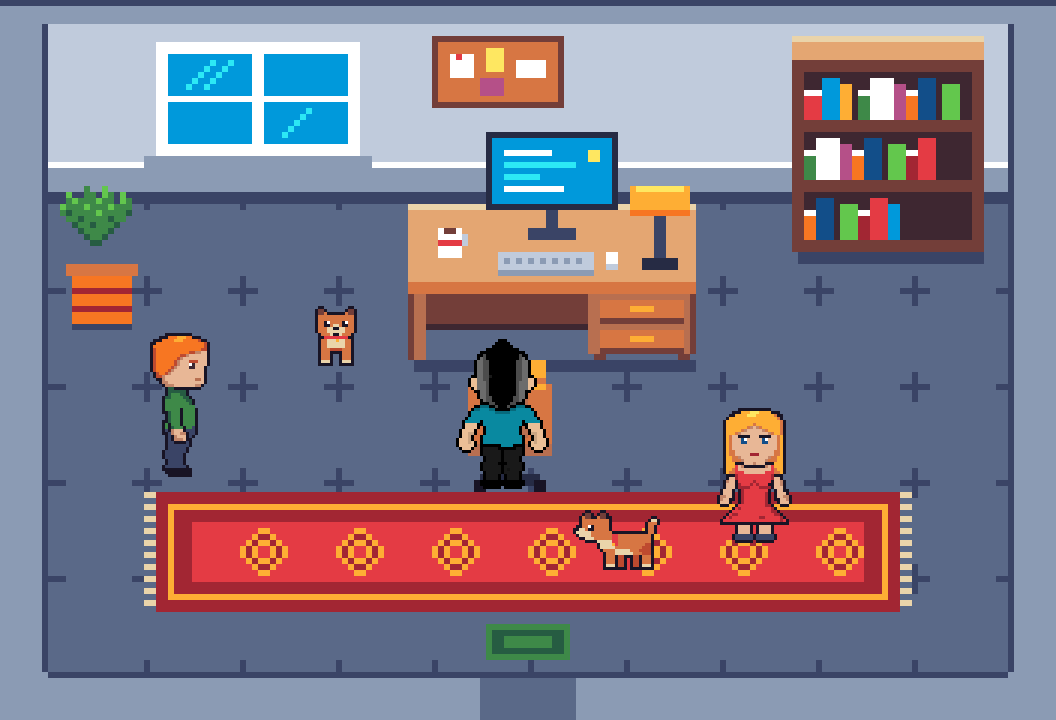
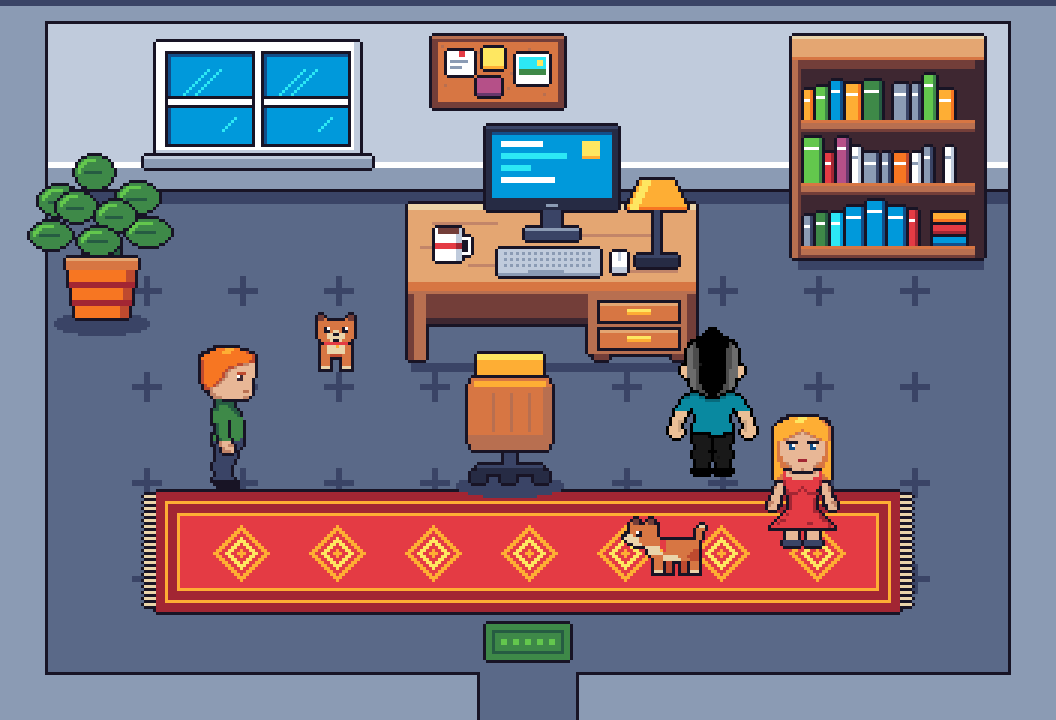
prototype(#61): room props redrawn in the characters' visual language
v2 of the desk and room props: 1:1 pixels with a 1 px dark outline per object,
after Asi found v1 (16 px grid at 2x, no outlines) didn't match the cast.
Floor and walls unchanged. scene-v1.png keeps the first version.

Changed region(s): [[0.0312, 0.0306, 0.9688, 0.9472], [0.2812, 0.4278, 0.3438, 0.5194]]

diff --git a/art-tests/claude-drawn/make_room.py b/art-tests/claude-drawn/make_room.py
@@ -1,137 +1,259 @@
 # A desk and a small office room, drawn from nothing by code (#61 side test).
-# Map rule from #60: drawn on a 16 px grid, exported at 2x, no outlines (like the Hall). ENDESGA 32 only.
-# Writes desk.png / desk@2x.png, room.png / room@2x.png and scene.png (room at 2x with the test cast at 1:1).
+# v2: props use the characters' visual language: 1:1 pixels, a 1 px dark outline around every object, a base
+# colour with one shade and one highlight. (v1 followed the #60 map rule, 16 px grid at 2x with no outlines;
+# Asi: "not the same visual language as the characters". scene-v1.png keeps that version.)
+# The floor and wall shell are still the 16 px grid at 2x: the floor is an open question.
+# Writes desk.png, room.png and scene.png (room with the test cast, zoomed 3x). ENDESGA 32 only.
 # usage (repo root): python3 -I art-tests/claude-drawn/make_room.py
 import os
-from PIL import Image
+from PIL import Image, ImageChops, ImageDraw
 
 HERE = os.path.dirname(os.path.abspath(__file__))
 E32 = set(open(os.path.join(HERE, '../pixellab/e32.hex')).read().split())
 INK, SL4, SL3, SL2, SL1, SL0, WHT = '181425', '262b44', '3a4466', '5a6988', '8b9bb4', 'c0cbdc', 'ffffff'
-W1, W2, W3, W4, W5, W6 = 'ead4aa', 'e4a672', 'd77643', 'b86f50', '733e39', '3e2731'
-RED, DRED, GOLD, YEL, ORG, PINK = 'e43b44', 'a22633', 'feae34', 'fee761', 'f77622', 'b55088'
+W1, W2, W3, W4, W5, W6, GRAIN = 'ead4aa', 'e4a672', 'd77643', 'b86f50', '733e39', '3e2731', 'c28569'
+RED, DRED, GOLD, YEL, ORG, RUST, PINK, PLUM = 'e43b44', 'a22633', 'feae34', 'fee761', 'f77622', 'be4a2f', 'b55088', '68386c'
 G1, G2, G3, BLU, CYA, NAVY = '63c74d', '3e8948', '265c42', '0099db', '2ce8f5', '124e89'
+SHADE = {RED: DRED, BLU: NAVY, GOLD: ORG, G1: G2, G2: G3, WHT: SL0, PINK: PLUM, ORG: RUST, CYA: BLU, SL1: SL3}
+W, H = 352, 240
+
+
+def rgb(c):
+    return tuple(bytes.fromhex(c)) + (255,)
 
 
 class Canvas:
-    def __init__(self, w, h, fill=None):
-        self.im = Image.new('RGBA', (w, h), self.rgb(fill) if fill else (0, 0, 0, 0))
-
-    @staticmethod
-    def rgb(c):
-        return tuple(bytes.fromhex(c)) + (255,)
+    def __init__(self, w=W, h=H, fill=None):
+        self.im = Image.new('RGBA', (w, h), rgb(fill) if fill else (0, 0, 0, 0))
 
     def r(self, x, y, w, h, c):  # filled rectangle
-        self.im.paste(self.rgb(c), (x, y, x + w, y + h))
+        self.im.paste(rgb(c), (x, y, x + w, y + h))
 
-    def grid(self, x, y, rows, legend):  # small hand-drawn stamp, '.' = clear
-        for j, row in enumerate(rows):
-            for i, ch in enumerate(row):
-                if ch != '.':
-                    self.im.putpixel((x + i, y + j), self.rgb(legend[ch]))
+    def ell(self, x, y, w, h, c):  # filled ellipse, hard edge
+        ImageDraw.Draw(self.im).ellipse((x, y, x + w - 1, y + h - 1), fill=rgb(c))
 
-    def save(self, name, scale=1):
-        used = {'%02x%02x%02x' % p[:3] for _, p in self.im.getcolors(9999) if p[3]}
-        assert used <= E32, used - E32
-        im = self.im.resize((self.im.width * scale, self.im.height * scale), Image.NEAREST)
-        im.save(os.path.join(HERE, name))
-        return im
+    def prop(self, fn, *a):
+        """Draw one object on its own layer and give it the cast's 1 px dark outline."""
+        layer = Canvas(*self.im.size)
+        fn(layer, *a)
+        alpha = layer.im.getchannel('A')
+        grown = Image.new('L', alpha.size)
+        for dx, dy in ((1, 0), (-1, 0), (0, 1), (0, -1)):
+            s = Image.new('L', alpha.size); s.paste(alpha, (dx, dy)); grown = ImageChops.lighter(grown, s)
+        self.im.paste(rgb(INK), mask=ImageChops.subtract(grown, alpha))
+        self.im.alpha_composite(layer.im)
+
+    def save(self, name, scale=1, check=True):
+        used = {'%02x%02x%02x' % p[:3] for _, p in self.im.getcolors(99999) if p[3]}
+        assert not check or used <= E32, used - E32  # the one check: every pixel is ENDESGA 32
+        self.im.resize((self.im.width * scale, self.im.height * scale), Image.NEAREST).save(os.path.join(HERE, name))
 
 
-def desk(c, x, y, shadow=True):
-    """48 wide. y is the back edge of the desktop; the monitor rises 12 px above it."""
-    if shadow:
-        c.r(x + 1, y + 26, 47, 2, SL3)
-    # legs, drawer unit and the dark panel behind the knee space
-    c.r(x, y + 15, 3, 11, W4); c.r(x, y + 15, 1, 11, W5)
-    c.r(x + 3, y + 15, 27, 5, W5); c.r(x + 3, y + 20, 27, 1, W6)
-    c.r(x + 30, y + 15, 18, 10, W4); c.r(x + 47, y + 15, 1, 10, W5)
-    c.r(x + 31, y + 25, 2, 1, W5); c.r(x + 45, y + 25, 2, 1, W5)
-    for dy in (16, 21):  # two drawers
-        c.r(x + 32, y + dy, 14, 4, W3); c.r(x + 32, y + dy + 3, 14, 1, W5); c.r(x + 37, y + dy + 1, 4, 1, GOLD)
-    # desktop: lit back edge, surface, front edge
-    c.r(x, y, 48, 13, W2); c.r(x, y, 48, 1, W1); c.r(x, y + 13, 48, 2, W3)
-    # monitor
-    c.r(x + 20, y + 4, 8, 2, SL3); c.r(x + 23, y, 2, 4, SL3)
-    c.r(x + 13, y - 12, 22, 13, SL4); c.r(x + 14, y - 11, 20, 11, BLU)
-    c.r(x + 16, y - 9, 8, 1, WHT); c.r(x + 16, y - 7, 12, 1, CYA); c.r(x + 16, y - 5, 6, 1, CYA)
-    c.r(x + 16, y - 3, 10, 1, WHT); c.r(x + 30, y - 9, 2, 2, YEL)
-    # keyboard, mouse, mug, lamp
-    c.r(x + 15, y + 8, 16, 4, SL0); c.r(x + 15, y + 11, 16, 1, SL1)
-    for i in range(7):
-        c.r(x + 16 + 2 * i, y + 9, 1, 1, SL1)
-    c.r(x + 33, y + 8, 2, 3, WHT); c.r(x + 33, y + 10, 2, 1, SL0)
-    c.r(x + 5, y + 4, 4, 5, WHT); c.r(x + 5, y + 6, 4, 1, RED); c.r(x + 6, y + 4, 2, 1, W5); c.r(x + 9, y + 5, 1, 2, SL0)
-    c.r(x + 39, y + 9, 6, 2, SL4); c.r(x + 41, y + 2, 2, 7, SL3)
-    c.r(x + 37, y - 3, 10, 5, GOLD); c.r(x + 38, y - 3, 8, 1, YEL); c.r(x + 37, y + 1, 10, 1, ORG)
+# --- desk: 96 wide; (x, y) is the back-left corner of the desktop --------------------------------------------
+def desk_body(c, x, y):
+    c.r(x, y + 30, 6, 22, W4); c.r(x, y + 30, 2, 22, W5)                  # left leg panel
+    c.r(x + 6, y + 30, 54, 10, W5); c.r(x + 6, y + 38, 54, 2, W6)         # panel behind the knees
+    c.r(x + 60, y + 30, 36, 20, W4); c.r(x + 93, y + 30, 3, 20, W5)       # drawer unit
+    c.r(x + 62, y + 50, 5, 2, W5); c.r(x + 88, y + 50, 5, 2, W5)          # feet
+    for dy in (32, 41):                                                   # drawers
+        c.r(x + 63, y + dy, 28, 8, INK); c.r(x + 64, y + dy + 1, 26, 6, W3); c.r(x + 64, y + dy + 1, 26, 1, W2)
+        c.r(x + 73, y + dy + 3, 8, 2, GOLD); c.r(x + 73, y + dy + 3, 8, 1, YEL)
+    c.r(x, y, 96, 26, W2); c.r(x, y, 96, 2, W1)                           # desktop, lit back edge
+    for gx, gy, gw in ((8, 6, 22), (54, 10, 30), (20, 20, 40), (72, 22, 18), (4, 14, 12)):
+        c.r(x + gx, y + gy, gw, 1, GRAIN)
+    c.r(x, y + 26, 96, 4, W3); c.r(x, y + 29, 96, 1, W4)                  # front edge of the top
+
+
+def monitor(c, x, y):
+    c.r(x + 39, y + 8, 18, 4, SL3); c.r(x + 39, y + 8, 18, 1, SL1); c.r(x + 45, y + 2, 6, 6, SL3)
+    c.r(x + 26, y - 26, 44, 28, SL4); c.r(x + 28, y - 24, 40, 22, BLU); c.r(x + 28, y - 24, 40, 1, NAVY)
+    c.r(x + 31, y - 21, 14, 2, WHT); c.r(x + 31, y - 17, 22, 2, CYA); c.r(x + 31, y - 13, 10, 2, CYA)
+    c.r(x + 31, y - 9, 18, 2, WHT); c.r(x + 58, y - 21, 6, 6, YEL); c.r(x + 58, y - 16, 6, 1, GOLD)
+    c.r(x + 46, y, 4, 1, SL1); c.r(x + 26, y - 26, 44, 1, SL3)
+
+
+def keyboard(c, x, y):
+    c.r(x + 30, y + 15, 34, 9, SL0); c.r(x + 30, y + 23, 34, 1, SL1)
+    for row in range(3):
+        for i in range(15):
+            c.r(x + 32 + 2 * i, y + 16 + 2 * row, 1, 1, SL1)
+    c.r(x + 40, y + 22, 12, 1, SL1)
+
+
+def mouse(c, x, y):
+    c.r(x + 68, y + 16, 5, 7, WHT); c.r(x + 68, y + 21, 5, 2, SL0); c.r(x + 70, y + 16, 1, 3, SL0)
+
+
+def mug(c, x, y):
+    c.r(x + 9, y + 8, 9, 11, WHT); c.r(x + 16, y + 8, 2, 11, SL0); c.r(x + 10, y + 8, 7, 2, W5)
+    c.r(x + 9, y + 13, 9, 2, RED); c.r(x + 16, y + 13, 2, 2, DRED)
+    c.r(x + 18, y + 11, 3, 1, WHT); c.r(x + 20, y + 11, 1, 6, WHT); c.r(x + 18, y + 16, 3, 1, WHT)
+
+
+def lamp(c, x, y):
+    c.r(x + 76, y + 17, 14, 4, SL4); c.r(x + 76, y + 17, 14, 1, SL3); c.r(x + 82, y + 2, 2, 15, SL3)
+    for i in range(10):
+        w = 12 + 2 * (i // 2)
+        c.r(x + 83 - w // 2, y - 8 + i, w, 1, ORG if i == 9 else GOLD); c.r(x + 84 - w // 2, y - 8 + i, 3, 1, YEL)
+
+
+def desk(c, x, y):
+    for part in (desk_body, monitor, keyboard, mouse, mug, lamp):
+        c.prop(part, x, y)
+
+
+# --- other props ----------------------------------------------------------------------------------------------
+def chair(c, x, y):  # office chair seen from behind, 28 wide
+    def base(c):
+        c.r(x + 12, y + 32, 4, 5, SL3); c.r(x + 3, y + 37, 22, 3, SL4); c.r(x + 3, y + 37, 22, 1, SL3)
+        for wx in (1, 11, 22):
+            c.r(x + wx, y + 39, 5, 4, SL4)
+    def seat(c):
+        c.r(x + 3, y, 22, 10, GOLD); c.r(x + 3, y, 22, 2, YEL)
+    def back(c):
+        c.r(x + 1, y + 8, 26, 24, W3); c.r(x, y + 10, 28, 20, W3)
+        c.r(x + 2, y + 9, 24, 2, GOLD); c.r(x, y + 27, 28, 3, W4); c.r(x + 1, y + 30, 26, 2, W4)
+        c.r(x + 25, y + 11, 3, 16, W4)
+        for sx in (8, 14, 20):
+            c.r(x + sx, y + 13, 1, 13, W4)
+    for part in (base, seat, back):
+        c.prop(part)
+
+
+def window(c, x, y):
+    def frame(c):
+        c.r(x, y, 68, 38, WHT); c.r(x + 66, y, 2, 38, SL0); c.r(x, y + 36, 68, 2, SL0)
+        for px in (x + 4, x + 36):
+            c.r(px - 1, y + 3, 30, 32, INK); c.r(px, y + 4, 28, 30, BLU)
+            c.r(px, y + 4, 28, 1, NAVY); c.r(px, y + 4, 1, 30, NAVY)
+            for i in range(9):
+                c.r(px + 5 + i, y + 17 - i, 1, 1, CYA); c.r(px + 9 + i, y + 17 - i, 1, 1, CYA)
+            for i in range(5):
+                c.r(px + 18 + i, y + 29 - i, 1, 1, CYA)
+            c.r(px, y + 18, 28, 1, INK); c.r(px, y + 19, 28, 2, WHT); c.r(px, y + 21, 28, 1, INK)
+    def sill(c):
+        c.r(x - 4, y + 38, 76, 4, SL1); c.r(x - 4, y + 38, 76, 1, SL0)
+    c.prop(frame); c.prop(sill)
+
+
+def board(c, x, y):
+    def cork(c):
+        c.r(x, y, 44, 24, W5); c.r(x + 2, y + 2, 40, 20, W3); c.r(x, y, 44, 1, W4)
+        for i in range(14):
+            c.r(x + 3 + (i * 11) % 38, y + 3 + (i * 7) % 18, 1, 1, W4)
+    def notes(c):
+        c.r(x + 5, y + 5, 9, 8, WHT); c.r(x + 6, y + 8, 6, 1, SL1); c.r(x + 6, y + 10, 4, 1, SL1); c.r(x + 9, y + 5, 2, 2, RED)
+    def photo(c):
+        c.r(x + 28, y + 6, 11, 10, WHT); c.r(x + 29, y + 7, 9, 6, CYA); c.r(x + 29, y + 11, 9, 2, G2); c.r(x + 35, y + 8, 2, 2, YEL)
+    def stickies(c):
+        c.r(x + 17, y + 4, 7, 7, YEL); c.r(x + 17, y + 10, 7, 1, GOLD)
+    def sticky2(c):
+        c.r(x + 15, y + 14, 8, 6, PINK); c.r(x + 15, y + 19, 8, 1, PLUM)
+    for part in (cork, notes, photo, stickies, sticky2):
+        c.prop(part)
+
+
+def bookshelf(c, x, y):  # 64 wide, 74 tall
+    def body(c):
+        c.r(x, y, 64, 8, W2); c.r(x, y, 64, 1, W1); c.r(x, y + 7, 64, 1, W3)
+        c.r(x, y + 8, 64, 66, W5); c.r(x + 61, y + 8, 3, 66, W6); c.r(x, y + 8, 2, 66, W4)
+        seed = 7
+        for s in range(3):
+            top = y + 11 + 21 * s
+            c.r(x + 3, top, 58, 17, W6); c.r(x + 3, top + 17, 58, 3, W4); c.r(x + 3, top + 17, 58, 1, W3)
+            bx = x + 4
+            while bx < x + 54 - 9 * (s == 2):
+                seed = (seed * 73 + 41) % 997
+                w, h = 3 + seed % 4, 10 + seed % 6
+                col = (RED, BLU, GOLD, G2, WHT, PINK, ORG, G1, SL1, CYA)[seed % 10]
+                c.r(bx, top + 17 - h, w, h, col); c.r(bx + w - 1, top + 17 - h, 1, h, SHADE[col])
+                c.r(bx, top + 17 - h + 3, w - 1, 1, WHT if col != WHT else SL1)
+                c.r(bx + w, top + 17 - h, 1, h, INK); c.r(bx - 1, top + 17 - h, 1, h, INK); c.r(bx, top + 16 - h, w, 1, INK)
+                bx += w + 1 + (seed % 7 == 0) * 3
+            if s == 2:  # a stack lying flat
+                for i, col in enumerate((BLU, RED, GOLD)):
+                    c.r(x + 46, top + 13 - 4 * i, 13, 4, INK); c.r(x + 47, top + 14 - 4 * i, 11, 3, col)
+                    c.r(x + 47, top + 16 - 4 * i, 11, 1, SHADE[col])
+    c.prop(body)
+
+
+def plant(c, x, y):  # (x, y) is the top-left of the pot, 24 wide
+    def pot(c):
+        c.r(x, y, 24, 4, W3); c.r(x, y, 24, 1, W2)
+        for i in range(16):
+            ins = 1 + i // 6
+            c.r(x + ins, y + 4 + i, 24 - 2 * ins, 1, DRED if i in (4, 5, 10, 11) else ORG)
+            c.r(x + 21 - ins, y + 4 + i, 3, 1, DRED if i in (4, 5, 10, 11) else RUST)
+    def stems(c):
+        c.r(x + 11, y - 10, 2, 10, G3); c.r(x + 6, y - 6, 2, 6, G3); c.r(x + 16, y - 7, 2, 7, G3)
+    def leaf(c, lx, ly, w, h):
+        c.ell(lx, ly, w, h, G2); c.ell(lx + 1, ly + 1, w * 2 // 3, h * 2 // 3, G1)
+        c.ell(lx + 2, ly + 2, w * 2 // 3, h * 2 // 3, G2); c.r(lx + w // 4, ly + h // 2, w // 2, 1, G3)
+    c.prop(stems)
+    for dx, dy, w, h in ((-9, -24, 14, 10), (17, -25, 14, 10), (3, -34, 13, 11), (-12, -12, 14, 9),
+                         (20, -13, 15, 9), (-3, -22, 13, 10), (10, -19, 13, 10), (4, -10, 14, 9)):
+        c.prop(leaf, x + dx, y + dy, w, h)
+    c.prop(pot)
+
+
+def rug(c, x, y, w, h):
+    def body(c):
+        for fy in range(y + 1, y + h - 1, 2):                     # fringe
+            c.r(x - 4, fy, 4, 1, W1); c.r(x + w, fy, 4, 1, W1)
+        c.r(x, y, w, h, DRED); c.r(x + 3, y + 3, w - 6, h - 6, GOLD); c.r(x + 4, y + 4, w - 8, h - 8, DRED)
+        c.r(x + 7, y + 7, w - 14, h - 14, GOLD); c.r(x + 8, y + 8, w - 16, h - 16, RED)
+        for cx in range(x + 28, x + w - 20, 32):                  # diamonds
+            for i in range(-9, 10):
+                for j in range(-9, 10):
+                    d = abs(i) + abs(j)
+                    if d <= 9 and d not in (6, 7, 2, 3):
+                        c.r(cx + i, y + h // 2 + j, 1, 1, GOLD if d in (8, 9, 0, 1) else YEL)
+    c.prop(body)
+
+
+def doormat(c, x, y):
+    def body(c):
+        c.r(x, y, 28, 12, G2); c.r(x + 2, y + 2, 24, 8, G3); c.r(x + 3, y + 3, 22, 6, G2)
+        for i in range(5):
+            c.r(x + 5 + 4 * i, y + 5, 2, 2, G1)
+    c.prop(body)
+
+
+def shell():
+    """Walls and floor: still the 16 px grid at 2x. Only the edge lines are 1:1 dark lines."""
+    c = Canvas(176, 120, SL1)
+    c.r(8, 32, 160, 80, SL2)
+    for ty in range(48, 112, 16):                                 # tile corners, a light hint of the grid
+        for tx in range(24, 168, 16):
+            c.r(tx - 2, ty, 5, 1, SL3); c.r(tx, ty - 2, 1, 5, SL3)
+    c.r(8, 4, 160, 24, SL0); c.r(8, 28, 160, 4, SL1); c.r(8, 27, 160, 1, WHT)
+    c.r(0, 0, 176, 1, SL3); c.r(8, 32, 160, 2, SL3)
+    c.r(80, 112, 16, 8, SL2)                                      # doorway
+    big = Canvas()
+    big.im = c.im.resize((W, H), Image.NEAREST)
+    big.r(16, 7, 320, 1, INK); big.r(16, 63, 320, 1, INK); big.r(15, 7, 1, 218, INK); big.r(336, 7, 1, 218, INK)
+    big.r(15, 224, 145, 1, INK); big.r(192, 224, 145, 1, INK); big.r(159, 224, 1, 16, INK); big.r(192, 224, 1, 16, INK)
+    return big
 
 
 def room():
-    c = Canvas(176, 120, SL1)                      # walls seen from above
-    c.r(8, 32, 160, 80, SL2)                       # floor, 10 x 5 tiles
-    for ty in range(32, 113, 16):                  # tile corners, a light hint of the grid
-        for tx in range(8, 169, 16):
-            c.r(max(tx - 2, 8), ty, min(tx + 3, 168) - max(tx - 2, 8), 1, SL3) if 32 < ty < 112 else None
-            c.r(tx, max(ty - 2, 32), 1, min(ty + 3, 112) - max(ty - 2, 32), SL3) if 8 < tx < 168 else None
-    c.r(8, 4, 160, 24, SL0); c.r(8, 28, 160, 4, SL1); c.r(8, 27, 160, 1, WHT)   # north wall face, skirting
-    c.r(0, 0, 176, 4, SL1); c.r(0, 0, 176, 1, SL3)
-    c.r(8, 32, 160, 2, SL3)                        # shade where the wall meets the floor
-    c.r(7, 4, 1, 108, SL3); c.r(168, 4, 1, 108, SL3); c.r(8, 112, 160, 1, SL3)
-    c.r(80, 112, 16, 8, SL2); c.r(80, 112, 16, 1, SL3)                           # doorway
-    c.r(81, 104, 14, 6, G2); c.r(82, 105, 12, 4, G3); c.r(84, 106, 8, 2, G2)     # doormat
-    # window
-    c.r(26, 7, 34, 19, WHT); c.r(28, 9, 30, 15, BLU); c.r(42, 9, 2, 15, WHT); c.r(28, 16, 30, 1, WHT)
-    for i in range(5):
-        c.r(31 + i, 14 - i, 1, 1, CYA); c.r(34 + i, 14 - i, 1, 1, CYA); c.r(47 + i, 22 - i, 1, 1, CYA)
-    c.r(24, 26, 38, 2, SL1)
-    # pin board
-    c.r(72, 6, 22, 12, W5); c.r(73, 7, 20, 10, W3)
-    c.r(75, 9, 4, 4, WHT); c.r(81, 8, 3, 4, YEL); c.r(86, 10, 5, 3, WHT); c.r(80, 13, 4, 3, PINK); c.r(76, 9, 1, 1, RED)
-    # bookshelf
-    c.r(133, 42, 31, 2, SL3)
-    c.r(132, 6, 32, 4, W2); c.r(132, 6, 32, 1, W1); c.r(132, 10, 32, 32, W5)
-    books = [RED, BLU, GOLD, G2, WHT, PINK, ORG, NAVY, G1, DRED]
-    for s, y in enumerate((12, 22, 32)):
-        c.r(134, y, 28, 8, W6)
-        x, i = 134, s * 3
-        while x < 160 - s * 5:
-            w, h = 2 + (i * 7) % 3 % 2 + (i % 4 == 0), 5 + (i * 5) % 3
-            c.r(x, y + 8 - h, w, h, books[i % len(books)]); c.r(x, y + 8 - h, w, 1, WHT if i % 3 == 0 else books[i % len(books)])
-            x += w + (i % 5 == 2); i += 1
-    # plant in the corner
-    c.r(12, 54, 10, 1, SL3)
-    c.r(12, 45, 10, 9, ORG); c.r(11, 44, 12, 2, W3); c.r(12, 48, 10, 1, DRED); c.r(12, 51, 10, 1, DRED)
-    c.grid(9, 31, ['.....G..g.....', '..g..GG.gG.g..', '..GgGGGgGG.gG.', '.gGGGgGGGgGGG.', '.GdGGGGgGGGGd.',
-                   '..GGdGGGGdGG..', '...dGGdGGGd...', '....dGGGGd....', '.....dGGd.....', '......dd......'],
-           {'G': G2, 'g': G1, 'd': G3})
-    desk(c, 68, 34)
-    # office chair, seen from behind
-    c.r(79, 82, 12, 1, SL3)
-    c.r(84, 76, 2, 4, SL4); c.r(80, 79, 10, 2, SL4); c.r(79, 80, 2, 2, INK); c.r(89, 80, 2, 2, INK)
-    c.r(79, 60, 12, 6, GOLD)
-    c.r(78, 64, 14, 12, W3); c.r(79, 63, 12, 1, W3); c.r(79, 64, 12, 1, GOLD); c.r(78, 74, 14, 2, W4)
-    for x in (81, 84, 87):
-        c.r(x, 66, 1, 7, W4)
-    # rug
-    c.r(24, 82, 2, 20, W1); c.r(150, 82, 2, 20, W1)
-    for y in range(83, 102, 2):
-        c.r(24, y, 2, 1, SL2); c.r(150, y, 2, 1, SL2)
-    c.r(26, 82, 124, 20, DRED); c.r(28, 84, 120, 16, GOLD); c.r(29, 85, 118, 14, DRED); c.r(32, 87, 112, 10, RED)
-    for x in range(40, 140, 16):
-        c.grid(x, 88, ['...gg...', '..gddg..', '.gdggdg.', 'gdg..gdg', 'gdg..gdg', '.gdggdg.', '..gddg..', '...gg...'],
-               {'g': GOLD, 'd': DRED})
+    c = shell()
+    rug(c, 52, 164, 248, 40); doormat(c, 162, 208)
+    window(c, 52, 14); board(c, 144, 12)
+    c.r(266, 87, 62, 3, SL3); bookshelf(c, 264, 12)
+    c.ell(18, 104, 32, 8, SL3); plant(c, 22, 86)
+    c.r(137, 121, 96, 3, SL3); desk(c, 136, 68)
+    c.ell(152, 158, 36, 8, SL3); chair(c, 156, 118)
     return c
 
 
-d = Canvas(48, 40); desk(d, 0, 12, shadow=False)
-d.save('desk.png'); d.save('desk@2x.png', 2)
-r = room(); r.save('room.png'); scene = r.save('room@2x.png', 2).copy()
-
-# scene.png: the test cast standing in the room at 1:1, as the game would draw them
-cast = [('../../public/Hero/Sprite-Hero.png', 3, 0, 152, 100), ('dana.png', 0, 0, 236, 120),
-        ('dog.png', 1, 0, 190, 128), ('visitor.png', 2, 0, 44, 96), ('dog.png', 0, 0, 96, 60)]
+d = Canvas(100, 84); desk(d, 2, 28); d.save('desk.png')
+r = room(); r.save('room.png')
+# scene.png: the test cast standing in the room, as the game would draw them
+cast = [('../../public/Hero/Sprite-Hero.png', 3, 0, 222, 96), ('dana.png', 0, 0, 252, 122),
+        ('dog.png', 1, 0, 206, 130), ('visitor.png', 2, 0, 60, 100), ('dog.png', 0, 0, 96, 62)]
 for src, row, col, x, y in cast:
     s = Image.open(os.path.join(HERE, src)).convert('RGBA')
-    scene.alpha_composite(s.crop((col * 64, row * 64, col * 64 + 40, row * 64 + 64)), (x, y))
-scene.resize((scene.width * 3, scene.height * 3), Image.NEAREST).save(os.path.join(HERE, 'scene.png'))
+    r.im.alpha_composite(s.crop((col * 64, row * 64, col * 64 + 40, row * 64 + 64)), (x, y))
+r.save('scene.png', 3, check=False)  # the hero's own sheet isn't ENDESGA 32 yet
 print('desk, room, scene written; all ENDESGA 32')

diff --git a/art-tests/pixellab/NOTES.md b/art-tests/pixellab/NOTES.md
@@ -79,10 +79,16 @@ Asi asked whether Claude can run Aseprite or just build the characters itself. B
   - `make_dog.py` → `dog.png` / `dog.aseprite`: a dog in the cast's sheet layout (4 directions, idle + 2 walk
     frames), drawn pixel by pixel in the script at character density with a dark outline. 8 colours. In game:
     column 28. `dog-preview.png` is the sheet at 7×.
-  - `make_room.py` → `desk.png`, `room.png` (+ `@2x`, + `.aseprite`): a desk and an 11 × 7.5 tile office room
-    (window, pin board, bookshelf, plant, chair, rug, doormat). Drawn on the 16 px grid and exported at 2×
-    with no outlines, as #60 says for maps. `scene.png` is the room at 2× with the test cast at 1:1, zoomed 3×.
-  - About 35 minutes for all three. Everything is 100% ENDESGA 32.
+  - `make_room.py` → `desk.png`, `room.png` (+ `.aseprite`): a desk and an 11 × 7.5 tile office room (window, pin
+    board, bookshelf, plant, chair, rug, doormat). `scene.png` is the room with the test cast, zoomed 3×.
+    - v1 (`scene-v1.png`) followed #60's map rule: 16 px grid exported at 2×, no outlines. Asi: the dog looks
+      great, but the desk and other props are "not the same visual language as the characters".
+    - v2 redraws every prop the way the cast is drawn: 1:1 pixels, a 1 px dark outline per object, one shade and
+      one highlight per colour. `desk-compare.png` shows v1 and v2 of the desk side by side. The floor and wall
+      shell are still 16 px at 2× (Asi: "floor we can figure it out").
+    - This goes against #60's "maps drawn at 16 px, exported 2×" for props. It is evidence for the open question
+      of drawing maps at the characters' density.
+  - About 35 minutes for all three, plus 15 for the v2 props. Everything is 100% ENDESGA 32.
   - Open points it shows: ENDESGA 32 has one mid slate blue, so the Hall's soft two-tone checker floor can't be
     kept; the room marks tile corners instead. The room isn't wired into the game (no walls, no map entry).
 - Limits: the two people reuse an existing body, so a character gets the hero's or Saruli's build and walk. A new body
